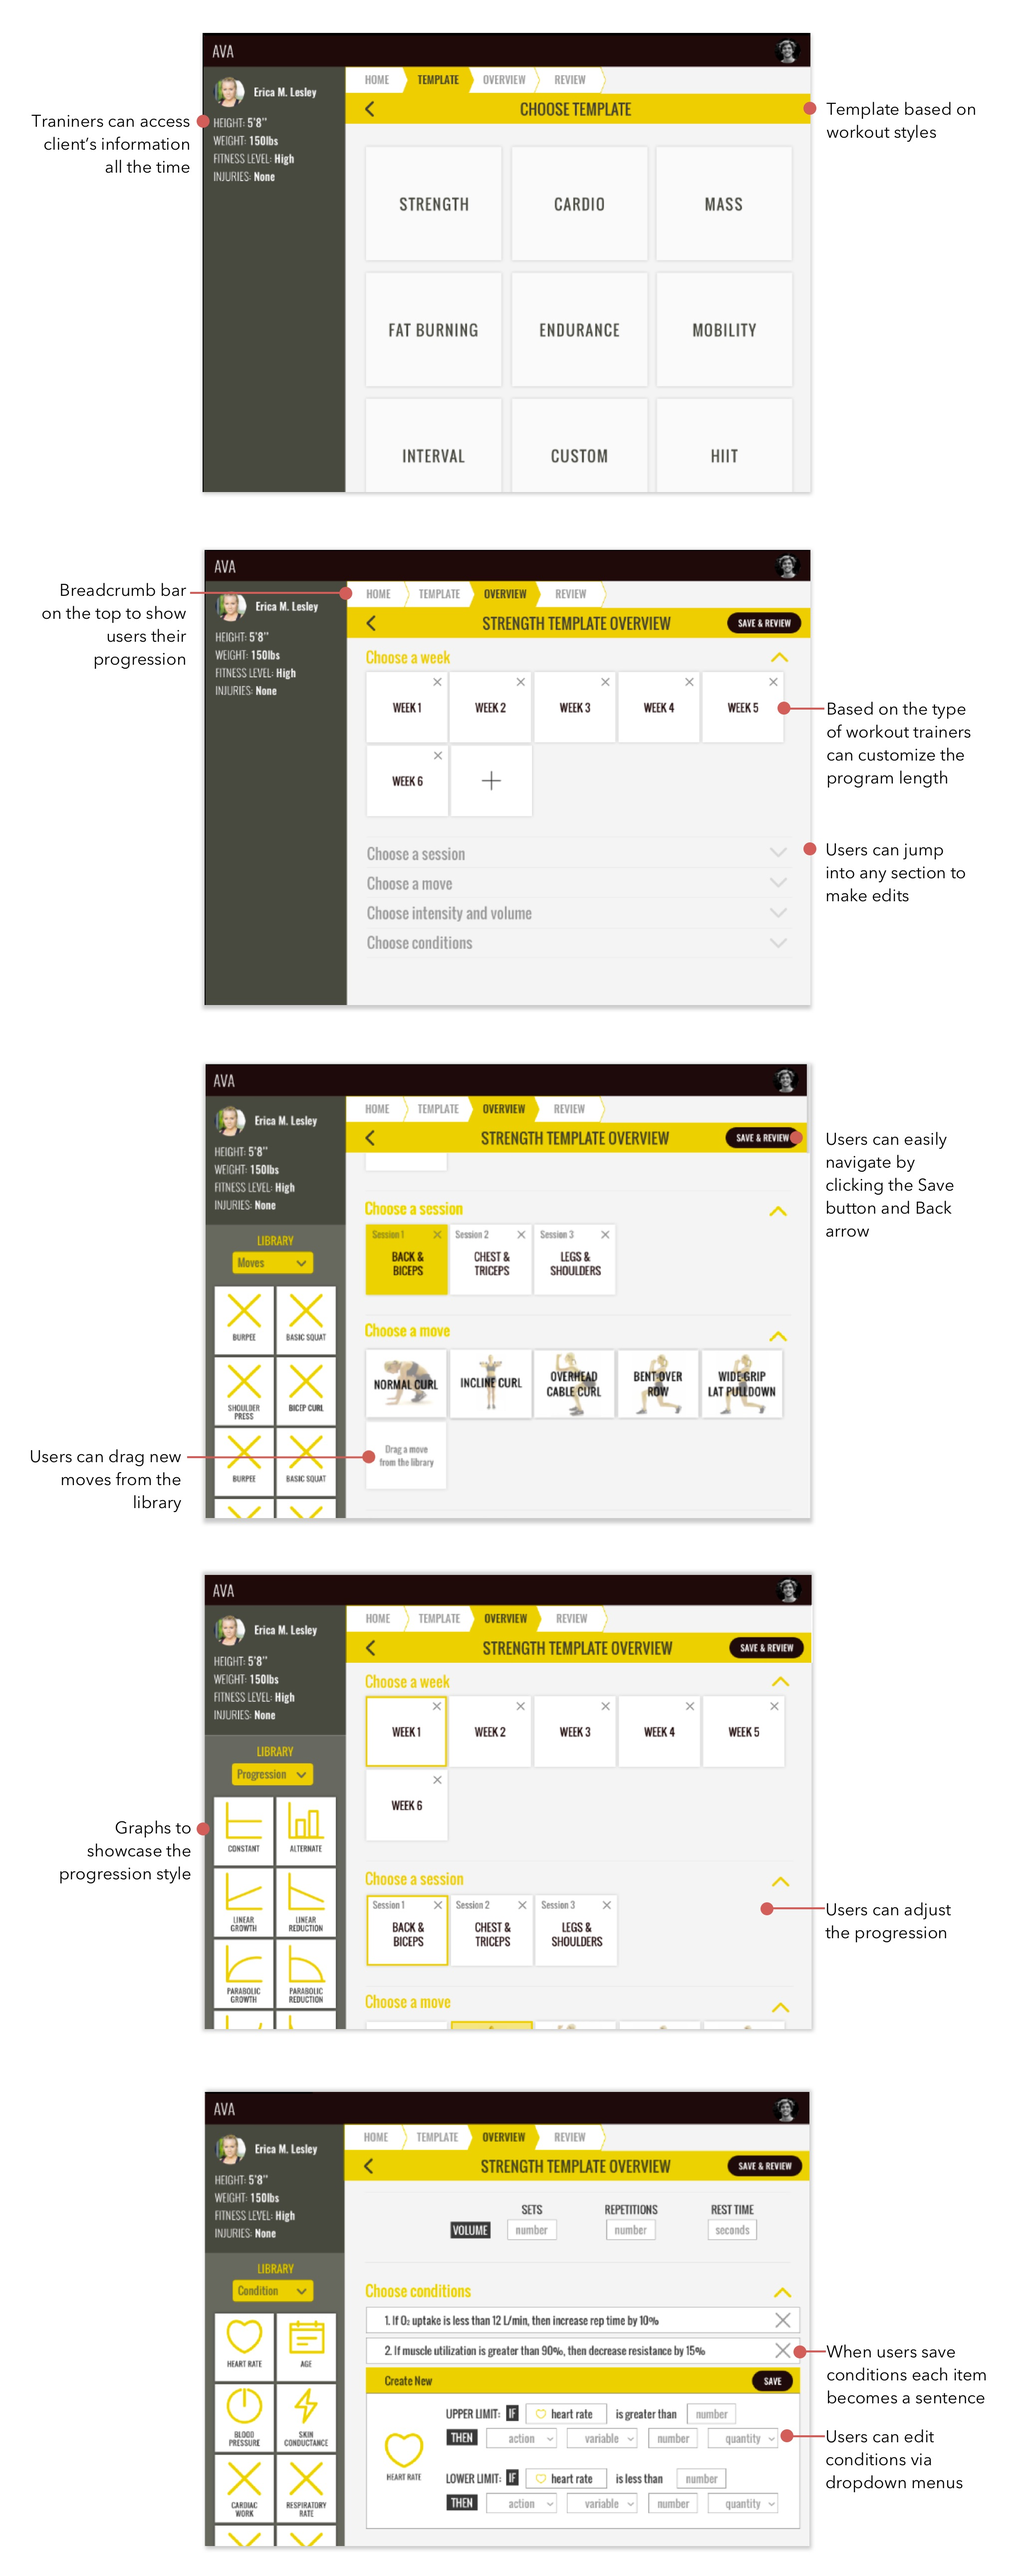
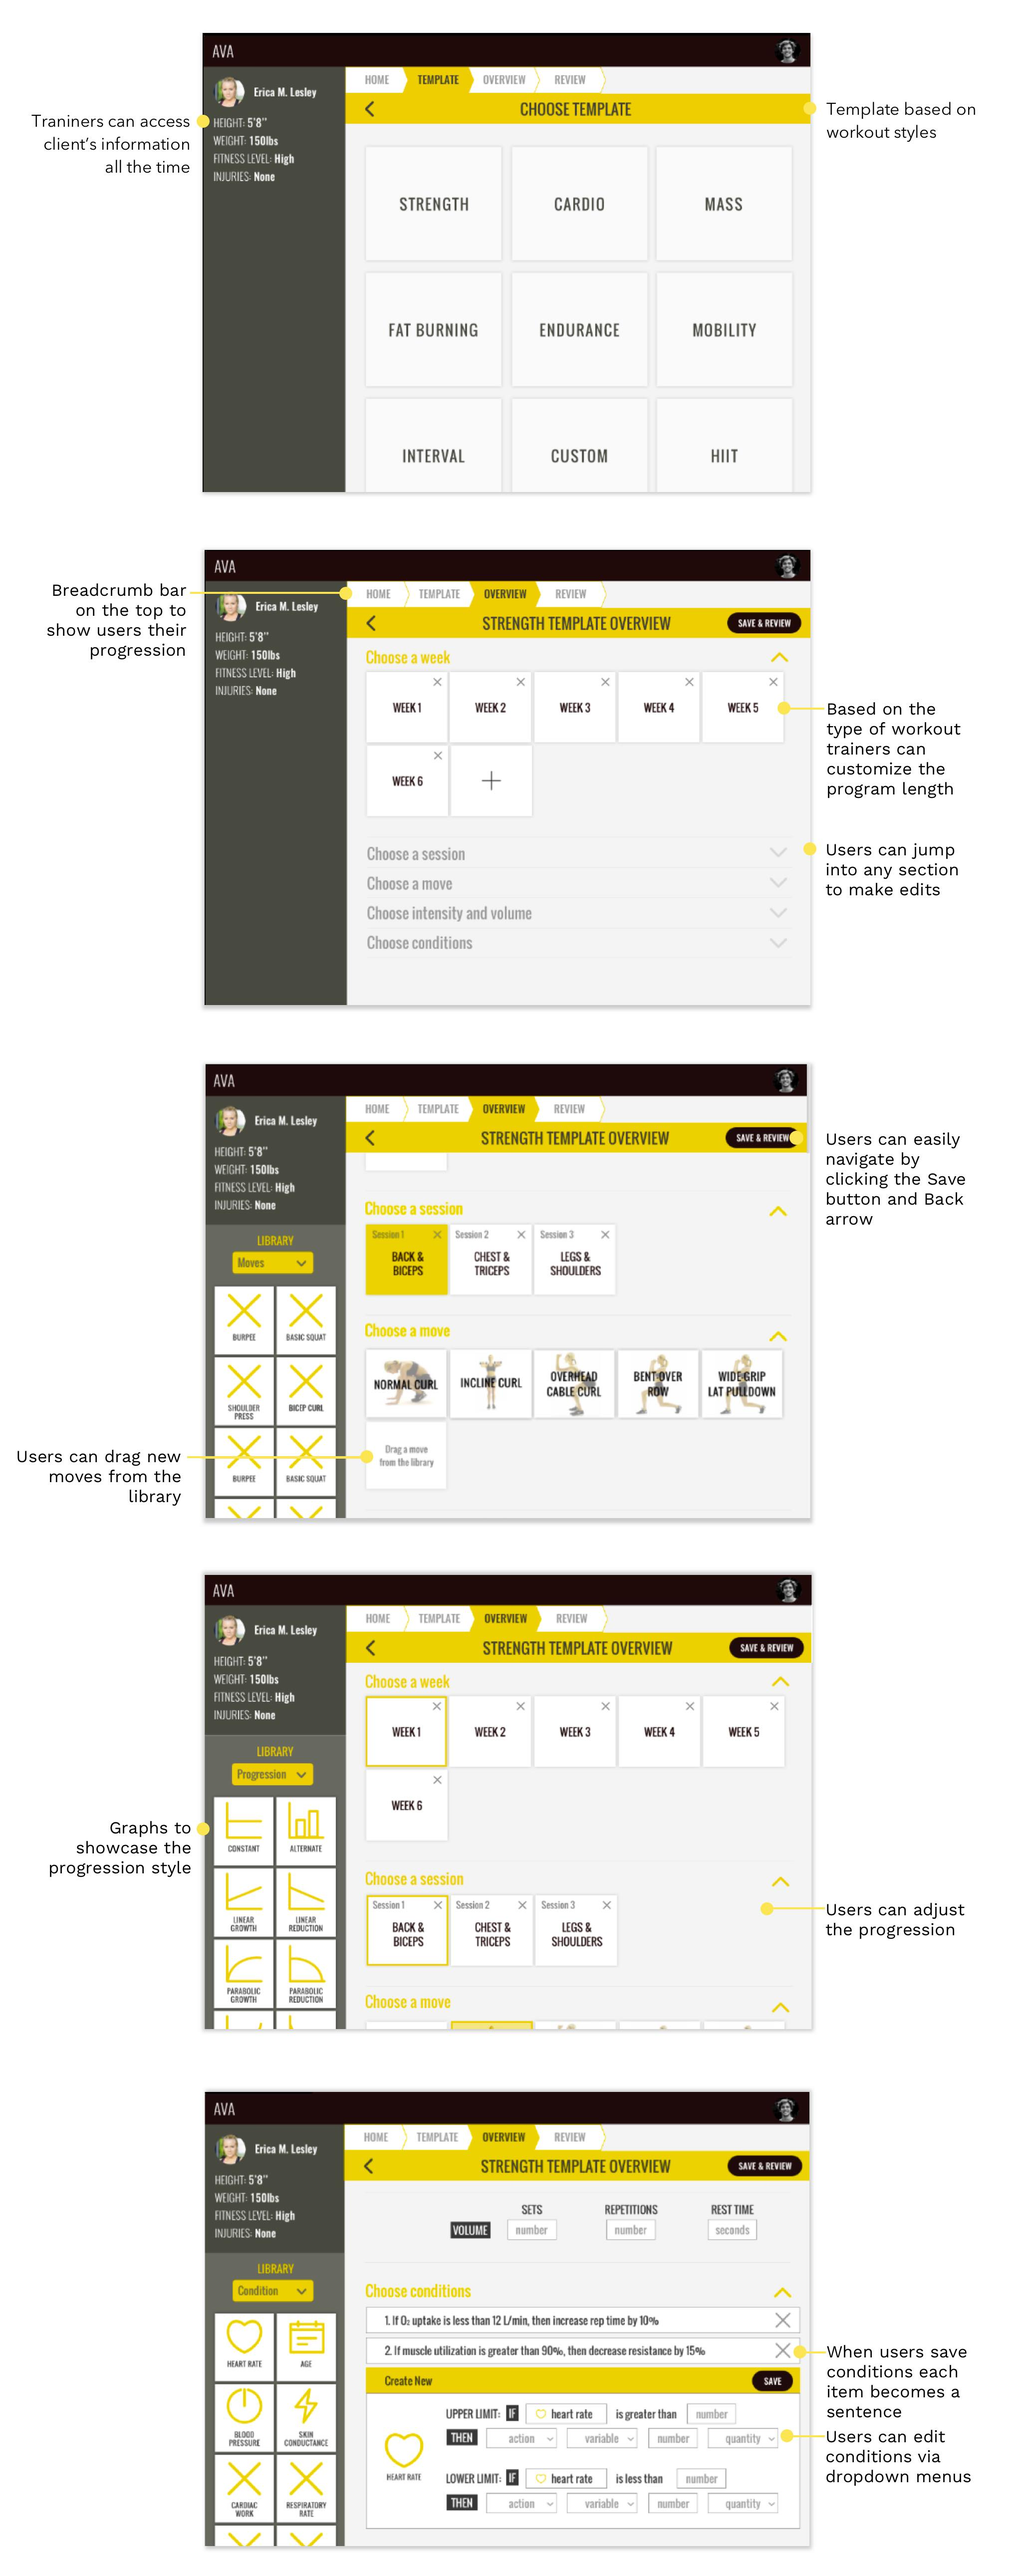
Implements changing nav color and other bug fixes

diff --git a/index.html b/index.html
@@ -28,15 +28,15 @@
   <!-- ############### -->
 
   <div class="Navigation navbar-fixed">
-    <nav class="primary-color">
+    <nav class="home-nav-bar">
       <div class="navigation nav-wrapper">
         <a href="#ProductDesign" class="brand-logo center hide-on-small-only">Hello, I am Szu Chen</a>
         <a href="#ProductDesign" class="brand-logo center hide-on-med-and-up">Szu Chen</a>
         <a href="#!" data-activates="mobile-menu" class="button-collapse"><i class="material-icons">menu</i></a>
           <ul class="left hide-on-med-and-down">
             <li><a href="#ProductDesign">Product Design</a></li>
-            <li><a href="#GraphicDesign">Graphics</a></li>
-            <li><a href="#About">About</a></li>
+            <!-- <li><a href="#GraphicDesign">Graphics</a></li> -->
+            <!-- <li><a href="#About">About</a></li> -->
           </ul>
           <ul class="right hide-on-med-and-down">
             <li><a href="https://www.linkedin.com/in/szuchen" target="_blank"><i class="fa fa-linkedin" aria-hidden="true"></i></a></li>
@@ -45,8 +45,8 @@
           <div class="side-nav" id="mobile-menu">
             <ul>
               <li><a href="#ProductDesign">Product Design</a></li>
-              <li><a href="#GraphicDesign">Graphics</a></li>
-              <li><a href="#About">About Me</a></li>
+              <!-- <li><a href="#GraphicDesign">Graphics</a></li> -->
+              <!-- <li><a href="#About">About Me</a></li> -->
             </ul>
             <a href="https://www.linkedin.com/in/szuchen" target="_blank"><i class="fa fa-linkedin" aria-hidden="true"></i></a>
             <a href="https://www.instagram.com/szu.art/" target="_blank"><i class="fa fa-instagram" aria-hidden="true"></i></a>
@@ -268,7 +268,7 @@
         </div>
       </div>
     </div>
-    <div class="section ava-4 primary-color" id="ava-stage1">
+    <div class="section ava-4 ava-primary-color" id="ava-stage1">
       <div class="row">
         <div class="col s12 m8 offset-m2 center white-text">
           <div class="row">
@@ -278,22 +278,22 @@
             <p>In order to better understand a personal traniner’s pain points, we went to the local gym and interviewed five trainers. Then we synthesized to three insights.</p>
           </div>
           <div class="row">
-            <img width='80%' src="./images/ava.img3.jpg" alt="" />
+            <img width='80%' src="./images/ava.img3.png" alt="" />
           </div>
           <div class="row">
             <div class="flex-container">
               <div class="flex-item">
-                <div class="circle-solid ava-primary-color valign-wrapper">
+                <div class="circle-solid ava-secondary-color valign-wrapper">
                   <span class="valign">Traditional ways to program workouts limit trainers to a small client base.</span>
                 </div>
               </div>
               <div class="flex-item">
-                <div class="circle-solid ava-primary-color valign-wrapper">
+                <div class="circle-solid ava-secondary-color valign-wrapper">
                   <span class="valign">Manually programming workouts is time intensive and unpaid.</span>
                 </div>
               </div>
               <div class="flex-item">
-                <div class="circle-solid ava-primary-color valign-wrapper">
+                <div class="circle-solid ava-secondary-color valign-wrapper">
                   <span class="valign">Workout templates are stored in their heads leading to loss of information.</span>
                 </div>
               </div>
@@ -307,7 +307,7 @@ It took me all day long – about eight hours – and I only finished four of th
         </div>
       </div>
     </div>
-    <div class="section ava-5 secondary-color">
+    <div class="section ava-5 ava-third-color">
       <div class="row">
         <div class="col s12 m8 offset-m2 black-text">
           <div class="row">
@@ -432,12 +432,12 @@ It took me all day long – about eight hours – and I only finished four of th
             <p>We converged our ideas into a lo-fi prototype deisgn, and then conducted useability tests with five personal trainers.</p>
           </div>
           <div class="row">
-            <img src="./images/ava.img6.jpg" alt="" class="responsive-img" />
+            <img src="./images/ava.img6.png" alt="" class="responsive-img" />
           </div>
         </div>
       </div>
     </div>
-    <div class="section ava-9 primary-color" id="ava-stage4">
+    <div class="section ava-9 ava-primary-color" id="ava-stage4">
       <div class="row">
         <div class="col s12 m8 offset-m2 white-text center">
           <div class="row">
@@ -447,12 +447,12 @@ It took me all day long – about eight hours – and I only finished four of th
             <p>Based on the user feedback, we realized this product had several layers including the template view, week view, and workout view. Each view has its own information to be edited. <b>It was a challenge to make this system easy to use and navigate, and we also needed to make it flow with a trainer’s mental model.</b> So, we went back to white board for more iterations and brainstorming.</p>
           </div>
           <div class="row">
-            <img src="./images/ava.img7.jpg" alt="" class="responsive-img" />
+            <img src="./images/ava.img7.png" alt="" class="responsive-img" />
           </div>
         </div>
       </div>
     </div>
-    <div class="section ava-10 primary-color">
+    <div class="section ava-10 ava-primary-color">
       <div class="row">
         <div class=" bg-img ava-10-image"></div>
       </div>
@@ -472,7 +472,7 @@ It took me all day long – about eight hours – and I only finished four of th
         </div>
       </div>
     </div>
-    <div class="section ava-12 primary-color" id="ava-stage6">
+    <div class="section ava-12 ava-primary-color" id="ava-stage6">
       <div class="row">
         <div class="col s12 m8 offset-m2 white-text center">
           <div class="row">
@@ -481,17 +481,17 @@ It took me all day long – about eight hours – and I only finished four of th
           <div class="row">
             <div class="flex-container">
               <div class="flex-item">
-                <div class="circle-red valign-wrapper">
+                <div class="circle-solid ava-secondary-color valign-wrapper">
                   <p class="valign"><b>100%</b> of users easily built workout templates</p>
                 </div>
               </div>
               <div class="flex-item">
-                <div class="circle-red valign-wrapper">
+                <div class="circle-solid ava-secondary-color valign-wrapper">
                   <p class="valign"><b>100%</b> users liked the breadcrumbs and overall navigation of the app</p>
                 </div>
               </div>
               <div class="flex-item">
-                <div class="circle-red valign-wrapper">
+                <div class="circle-solid ava-secondary-color valign-wrapper">
                   <p class="valign"><b>90%</b> of users easily understood how to adjust sets, reps, and rest time</p>
                 </div>
               </div>
@@ -749,7 +749,7 @@ It took me all day long – about eight hours – and I only finished four of th
             <h1>Hi-fi Prototype</h1>
           </div>
           <div class="row">
-            <img width="60%" src="./images/chime.img9.jpg" alt="" class="responsive-img" />
+            <img width="80%" src="./images/chime.img9.jpg" alt="" class="responsive-img" />
           </div>
         </div>
       </div>

diff --git a/scripts/index.js b/scripts/index.js
@@ -54,12 +54,12 @@ $(document).ready(function(){
       case '#ProductDesign':
         $('.ProductDesign').fadeOut(300);
         break;
-      case '#GraphicDesign':
-        $('.GraphicDesign').fadeOut(300);
-        break;
-      case '#About':
-        $('.About').fadeOut(300);
-        break;
+      // case '#GraphicDesign':
+      //   $('.GraphicDesign').fadeOut(300);
+      //   break;
+      // case '#About':
+      //   $('.About').fadeOut(300);
+      //   break;
       case '#Ava':
         $('.Ava').fadeOut(300);
         break;
@@ -76,30 +76,35 @@ $(document).ready(function(){
     switch (url) {
       case '#ProductDesign':
         fadeOutCurrentURL(currentURL);
+        $('nav').addClass('home-nav-bar');
         $('.ProductDesign').delay(300).fadeIn(300);
         setTimeout(scrollToTop, 300);
         currentURL = url;
         break;
-      case '#GraphicDesign':
-        fadeOutCurrentURL(currentURL);
-        $('.GraphicDesign').delay(300).fadeIn(300);
-        setTimeout(scrollToTop, 300);
-        currentURL = url;
-        break;
-      case '#About':
-        fadeOutCurrentURL(currentURL);
-        $('.About').delay(300).fadeIn(300);
-        setTimeout(scrollToTop, 300);
-        currentURL = url;
-        break;
+      // case '#GraphicDesign':
+      //   fadeOutCurrentURL(currentURL);
+      //   $('.GraphicDesign').delay(300).fadeIn(300);
+      //   setTimeout(scrollToTop, 300);
+      //   currentURL = url;
+      //   break;
+      // case '#About':
+      //   fadeOutCurrentURL(currentURL);
+      //   $('.About').delay(300).fadeIn(300);
+      //   setTimeout(scrollToTop, 300);
+      //   currentURL = url;
+      //   break;
       case '#Ava':
         fadeOutCurrentURL(currentURL);
+        $('nav').removeClass('home-nav-bar');
+        $('nav').addClass('ava-nav-bar');
         $('.Ava').delay(300).fadeIn(300);
         setTimeout(scrollToTop, 300);
         currentURL = url;
         break;
       case '#Chime':
         fadeOutCurrentURL(currentURL);
+        $('nav').removeClass('home-nav-bar');
+        $('nav').addClass('chime-nav-bar');
         $('.Chime').delay(300).fadeIn(300);
         setTimeout(scrollToTop, 300);
         currentURL = url;
@@ -107,12 +112,12 @@ $(document).ready(function(){
     }
   }
 
-  $('.ProductDesign').hide();
+  // $('.ProductDesign').hide();
   $('.GraphicDesign').hide();
   $('.About').hide();
   $('.Ava').hide();
-  // $('.Chime').hide();
-  // window.location.hash = currentURL;
+  $('.Chime').hide();
+  window.location.hash = currentURL;
 });
 
 // Nav Auto Hiding/Showing

diff --git a/styles/styles.css b/styles/styles.css
@@ -28,11 +28,27 @@ h5 {
 }
 
 .ava-primary-color {
-  background-color: rgb(230, 121, 116);
+  background-color: #67685E;
 }
 
 .ava-secondary-color {
-  background-color: rgb(247, 212, 210);
+  background-color: #48493E;
+}
+
+.ava-third-color {
+  background-color: #DBDBDB;
+}
+
+.home-nav-bar {
+  background-color: rgb(230, 121, 116);
+}
+
+.ava-nav-bar {
+  background-color: #48493E;
+}
+
+.chime-nav-bar {
+  background-color: #33AF23;
 }
 
 .chime-primary-color {
@@ -297,7 +313,7 @@ h1.header {
 }
 
 .ava-5 .card h5 {
-  color: rgb(230, 121, 116);
+  color: #48493E;
 }
 
 .ava-5 .card ul {
@@ -307,7 +323,7 @@ h1.header {
 .ava-5 .card li:before {
   content: "• ";
   margin-left: -15px;
-  color: rgb(230, 121, 116);
+  color: #48493E;
   font-size: 20px;
 }
 
@@ -315,7 +331,7 @@ h1.header {
   background-image: url('../images/ava.img5.jpg');
 }
 
-.ava-10.primary-color {
+.ava-10.ava-primary-color {
   padding-bottom: 0px;
 }
 
